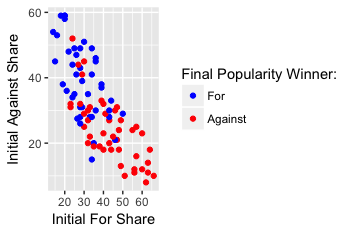
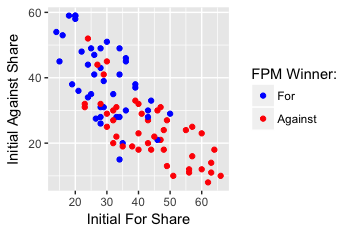
abc

diff --git a/_posts/2018-7-29-debatefinalsummary.md b/_posts/2018-7-29-debatefinalsummary.md
@@ -152,17 +152,21 @@ This is a perfect example of the issue, because it feels fundamentally wrong to 
 
 ### Are there obvious issues in the original metric?
 
-There is no singular way to measure the efficacy of these metrics, and it ultimately comes down to our subjective intuition about what it means to "win" a debate. However, we can reasonably agree on some criteria that we intuitively find "fair". Generally, we want a debate to be a plausibly even playing field from the start. An even more intuitive metric would simply be the popularity of each motion after the debate (which we refer to as the Final Popularity [FP] metric), but we reject this approach because it so obviously favors the side that is initially popular with the audience. It's then worth it to consider whether the ISM is biased in ways that clash with our intuition.
+There is no singular way to measure the efficacy of these metrics, and it ultimately comes down to our subjective intuition about what it means to "win" a debate. However, we can reasonably agree on some criteria that we intuitively find "fair". Generally, we want a debate to be a plausibly even playing field from the start. An even more intuitive metric would simply be the popularity of each motion after the debate (which we refer to as the Final Popularity Metric [FPM]), but we reject this approach because it so obviously favors the side that is initially popular with the audience. It's then worth it to consider whether the ISM is biased in ways that clash with our intuition.
 
-The most obvious plausible bias is that of the initial popularity of each position. In fact, this is why we do not simply use the FP metric, so it is perhaps instructive to consider what such bias looks like.
-
+The most obvious plausible bias is that of the initial popularity of each position. In fact, this is why we do not simply use the FPM , so it is perhaps instructive to consider what such bias looks like. We plot the initial popularity of the For and Against positions below, and use color to denote the final winner by the FPM (i.e. which position was ultimately more popular with the audience). Exactly as we'd expect, there is a heavy bias to the initial starting positions. There are a few instances where a particularly large swing allows for the initially unfavorable position to pull out a win, but generally the winner is determined simply by initial popularity, and the processs of the debate itself is largely irrelevant.
 
 ![OriginalResults]({{ "/images/IQ2_FPresults.png"}})
 
-One way to compare the metrics is whether they are biased in certain starting situations. For example, does the original metric favored by Intelligence Squared tend to consistently declare the originally unpopular side to be the winner, as seems plausible from the examples above? Or are there confounding factors that cancel out this bias? 
-
-Cursory checks of the dataset don’t reveal any glaring issues with the ISM winner being closely related to pre debate factors. 
+When we consider the same plot colored by the standard ISM results, we see a much more promising picture. On first glance, this adjustment does a plausible job of removing the bias from initial popularity. We theorized that the ISM might be punishing to sides that begin with overwhelming popularity, becuase they have so many fewer people that they can convert to their side (and an increase from 90 to 95 percent popularity might only be 5 percentage points, but represents a massive 50% decrease in those who don't support that side). However, in practice, most positions start at a popularity between 20% and 50%, so those extreme examples just aren't as concerning. And within that range, the naked eye doesn't detect any overwhelming patterns of bias.
 
 ![OriginalResults]({{ "/images/IQ2_winnerorigresults.png"}})
 
+One plausible trend that might stand out lies in the bottom right of the chart, where we do note that debates with an initially extremely high For share tended to be won by the Against side. Of the seven debates where the For side began with at least 60% vote share, the Against side won six contests and For won only one. This is a very small sample, but it does fit our intuition, and thus the lack of bias might simply stem from the fact that it is only observed in the extreme starting positions, which occur rarely. We do note that the reverse extreme (where the Against side has initally dominant popularity) does not show any such obvious trend.
+
+
+![PartitionVoteShare]({{ "/images/IQ2_partitionvotechange.png"}})
+
 ![UDMResults]({{ "/images/IQ2_winnerUDMresults.png"}})
+
+
